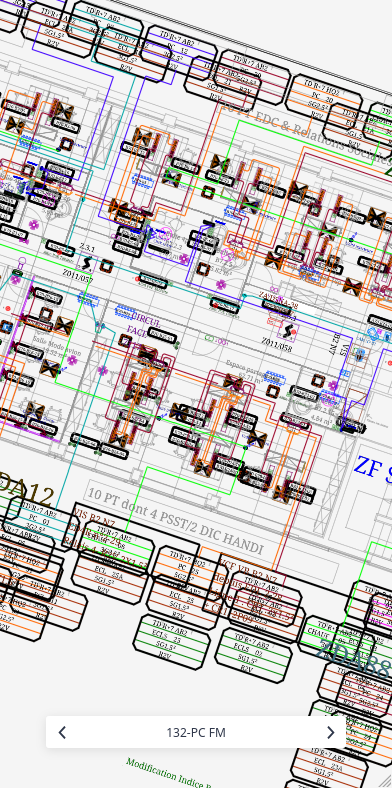
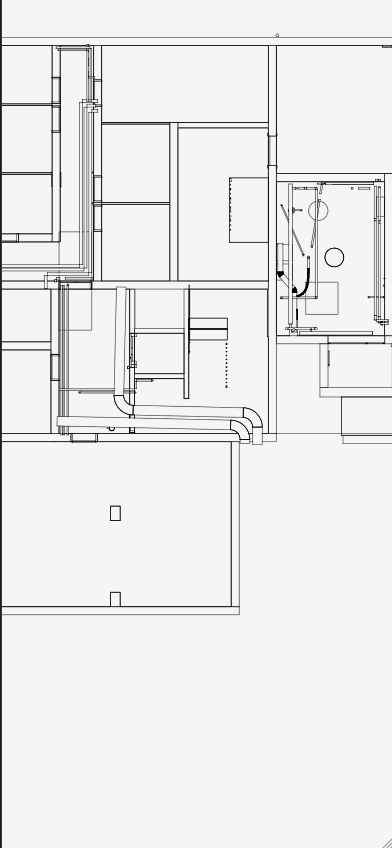
doc(viewer): add 'mobile-dxf' to mobile doc

diff --git a/src/viewer/mobile.md b/src/viewer/mobile.md
@@ -48,12 +48,13 @@ bimdataViewer.mount("#app", "mobile-plan");
 <img style="margin: auto" src="/images/viewer/viewer-mobile-plan.png" alt="Viewer Mobile Plan">
 
 
-## Mobile Viewer DWG
+## Mobile Viewer DWG / DXF
 
-You can use the mobile DWG viewer with the `"mobile-dwg"` window.
+You can use the mobile DWG viewer with the `"mobile-dwg"` window (or `"mobile-dxf"` for DXF models).
 
 ```js
-bimdataViewer.mount("#app", "mobile-dwg");
+bimdataViewer.mount("#app", "mobile-dwg"); // for DWG
+bimdataViewer.mount("#app", "mobile-dxf"); // for DXF
 ```
 
 <img style="margin: auto" src="/images/viewer/viewer-mobile-dwg.png" alt="Viewer Mobile DWG">
